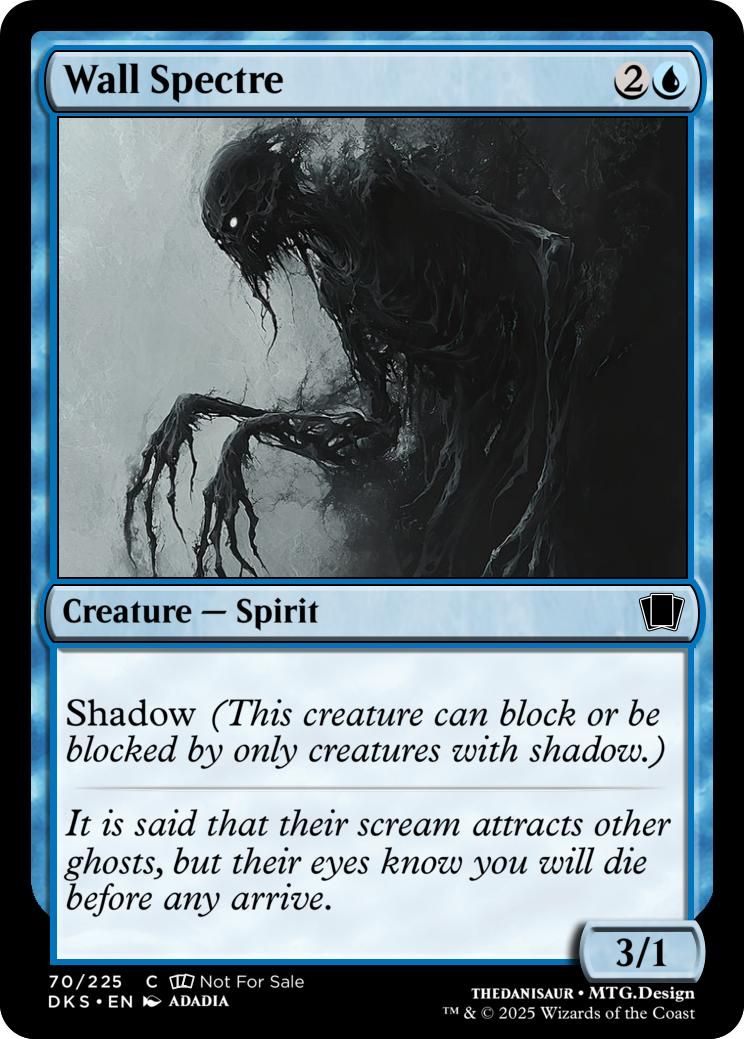
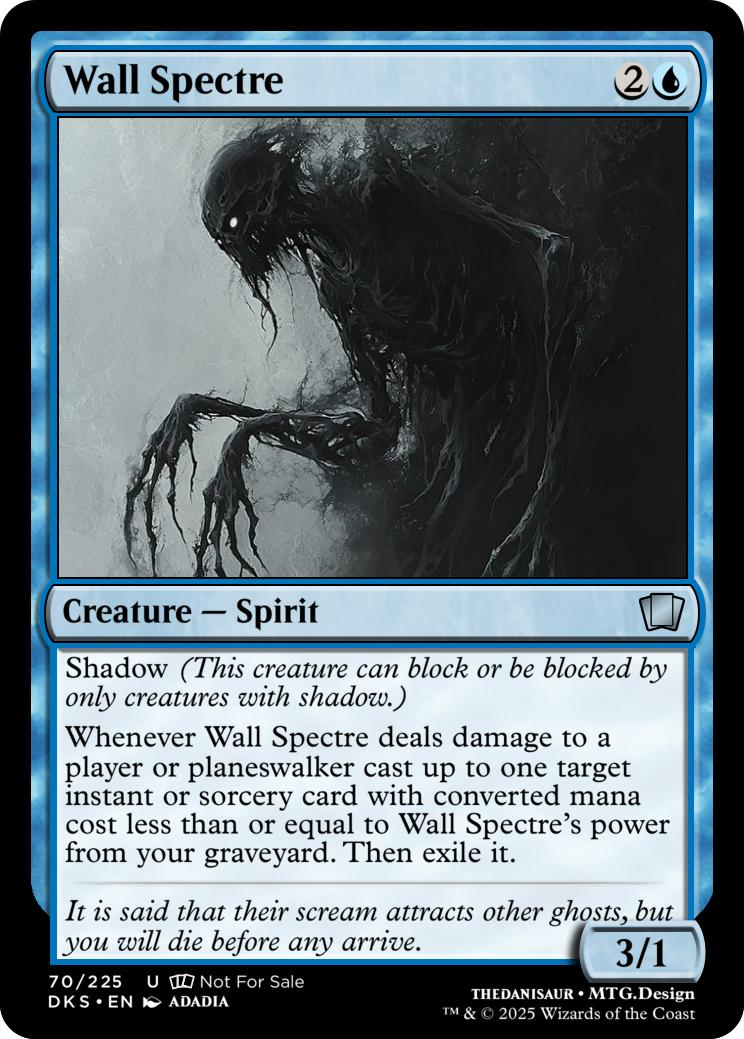
Add blue soul card
Replaced spined hedgehog with soul of an unknown traveler to help with duals entering tapped
Updated rules for:
  blue:
    Soul of an Unknown Traveler: added
    Spined Hedgehog: removed
    Wall Specter: Add ability to flashback cards in graveyard on damage dealt. Increased rarity Common -> Uncommon

diff --git a/README.md b/README.md
@@ -437,18 +437,18 @@ Booster distribution
 </tr>
 <tr>
     <td align="center">
-        <img src="./cards/blue/soul_spear.jpeg" alt="Soul Spear" width="400"/><br/>
-        <strong>Soul Spear</strong>
+        <img src="./cards/blue/soul_of_an_unknown_traveler.jpeg" alt="Soul Of An Unknown Traveler" width="400"/><br/>
+        <strong>Soul Of An Unknown Traveler</strong>
     </td>
     <td align="center">
-        <img src="./cards/blue/soul_stream.jpeg" alt="Soul Stream" width="400"/><br/>
-        <strong>Soul Stream</strong>
+        <img src="./cards/blue/soul_spear.jpeg" alt="Soul Spear" width="400"/><br/>
+        <strong>Soul Spear</strong>
     </td>
 </tr>
 <tr>
     <td align="center">
-        <img src="./cards/blue/spined_hedgehog.jpeg" alt="Spined Hedgehog" width="400"/><br/>
-        <strong>Spined Hedgehog</strong>
+        <img src="./cards/blue/soul_stream.jpeg" alt="Soul Stream" width="400"/><br/>
+        <strong>Soul Stream</strong>
     </td>
     <td align="center">
         <img src="./cards/blue/vordt_and_the_dancer.jpeg" alt="Vordt And The Dancer" width="400"/><br/>
